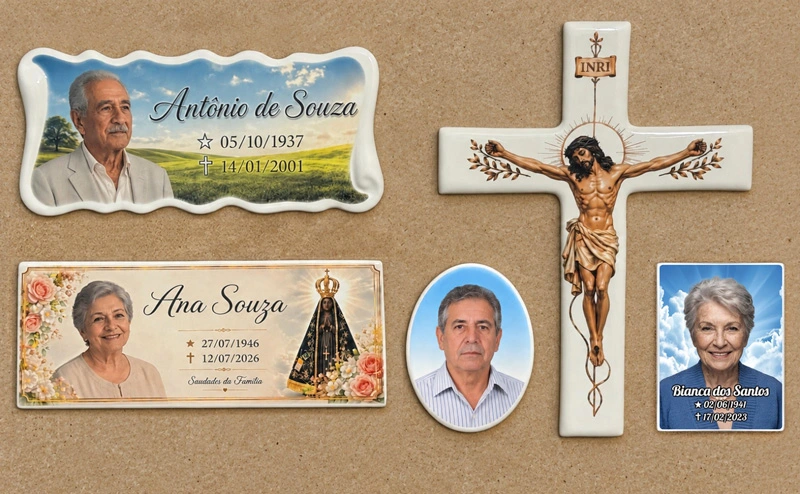
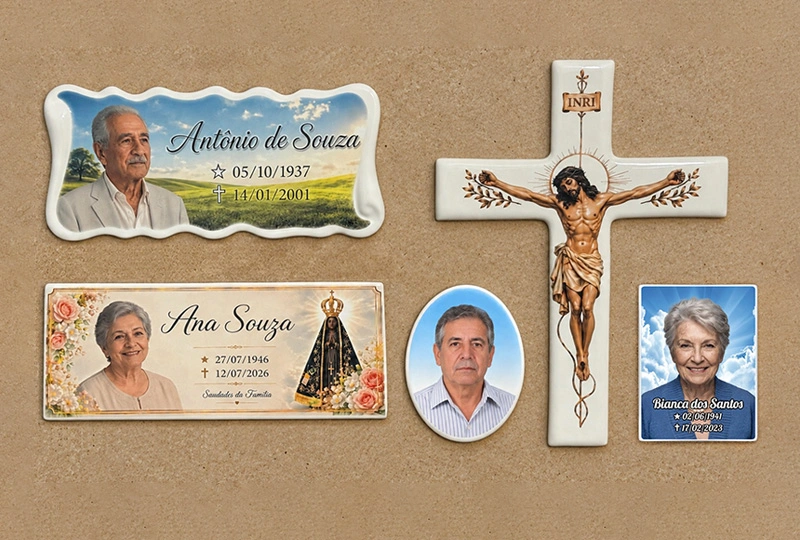
Revisão Final Marina

diff --git a/produtos-para-tumulos/index.html b/produtos-para-tumulos/index.html
@@ -1345,7 +1345,7 @@
     <div class="section-heading section-heading-center">
 
       <span class="eyebrow">
-        MAIS SEGURANÇA PARA A HOMENAGEM
+        MAIS TRANQUILIDADE NA ESCOLHA
       </span>
 
       <h2>
@@ -1590,9 +1590,9 @@
       </h2>
 
       <p class="acrylic-description">
-        Letras personalizadas em diferentes estilos e tamanhos,
-        próprias para área externa e produzidas em material
-        que não oferece risco de roubo.
+        Letras personalizadas em diferentes estilos e tamanhos, 
+        próprias para área externa e produzidas em material 
+        pouco atrativo para revenda (furto).
       </p>
 
 
@@ -1681,7 +1681,7 @@
           <div>
 
             <h3>
-              100% SEGURO
+              SEGURO
             </h3>
 
             <p>
@@ -1883,7 +1883,7 @@
       <p>
         São diferentes soluções desenvolvidas para ajudar você a 
         personalizar, renovar ou finalizar cada detalhe com mais 
-        ssegurança e cuidado.
+        segurança e cuidado.
       </p>
 
 
